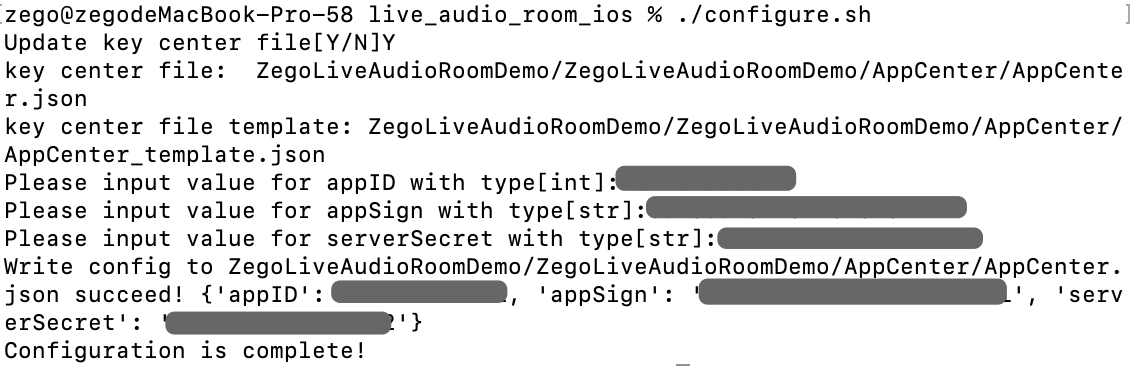
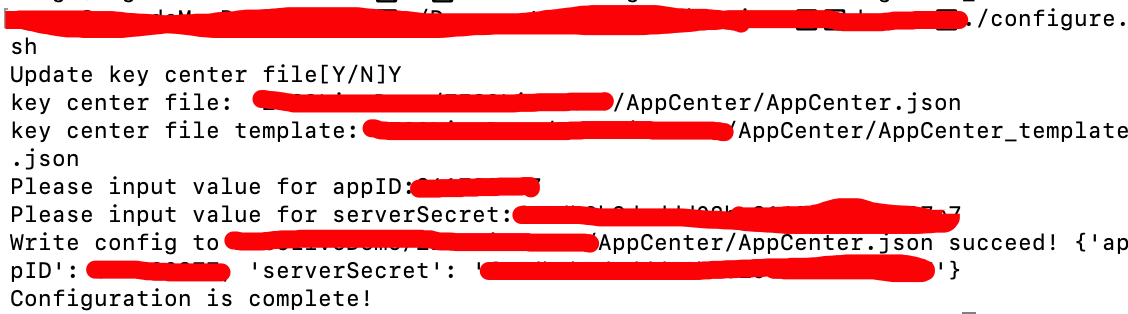
📝: change ReadMe.

diff --git a/ZegoLiveAudioRoomDemo/ZegoLiveAudioRoom/RoomManager.swift b/ZegoLiveAudioRoomDemo/ZegoLiveAudioRoom/RoomManager.swift
@@ -106,7 +106,7 @@ class RoomManager: NSObject {
 }
 
 extension RoomManager {
-    func loginRtcRoom(with rtcToken: String) {
+    func loginRtcRoom(with token: String) {
         guard let userID = RoomManager.shared.userService.localInfo?.userID else {
             assert(false, "user id can't be nil.")
             return
@@ -121,7 +121,7 @@ extension RoomManager {
         let user = ZegoUser(userID: userID)
         
         let config = ZegoRoomConfig()
-        config.token = rtcToken
+        config.token = token
         config.maxMemberCount = 0
         ZegoExpressEngine.shared().loginRoom(roomID, user: user, config: config)
         

diff --git a/README.md b/README.md
@@ -25,7 +25,7 @@ Before getting started with the Live Audio Room application, **contact us to act
 
 ### Modify the project configurations
 1. For MacOs, open Terminal, navigate to the `live_audio_room_ios` folder where the `configure.sh` is located. 
-2. Run the configuration script with the `./configure.sh` command. And fill in the AppID, AppSign, and ServerSecret, which can be obtained in the [ZEGO Admin Console\|_blank](https://console.zego.im/).  
+2. Run the configuration script with the `./configure.sh` command. And fill in the AppID and ServerSecret, which can be obtained in the [ZEGO Admin Console\|_blank](https://console.zego.im/).  
 **Note**: If you are using Windows system, double-click the `configure.bat` to run the configuration script. 
 <img width="700px" src="images/configure_ios.png"/>
 
